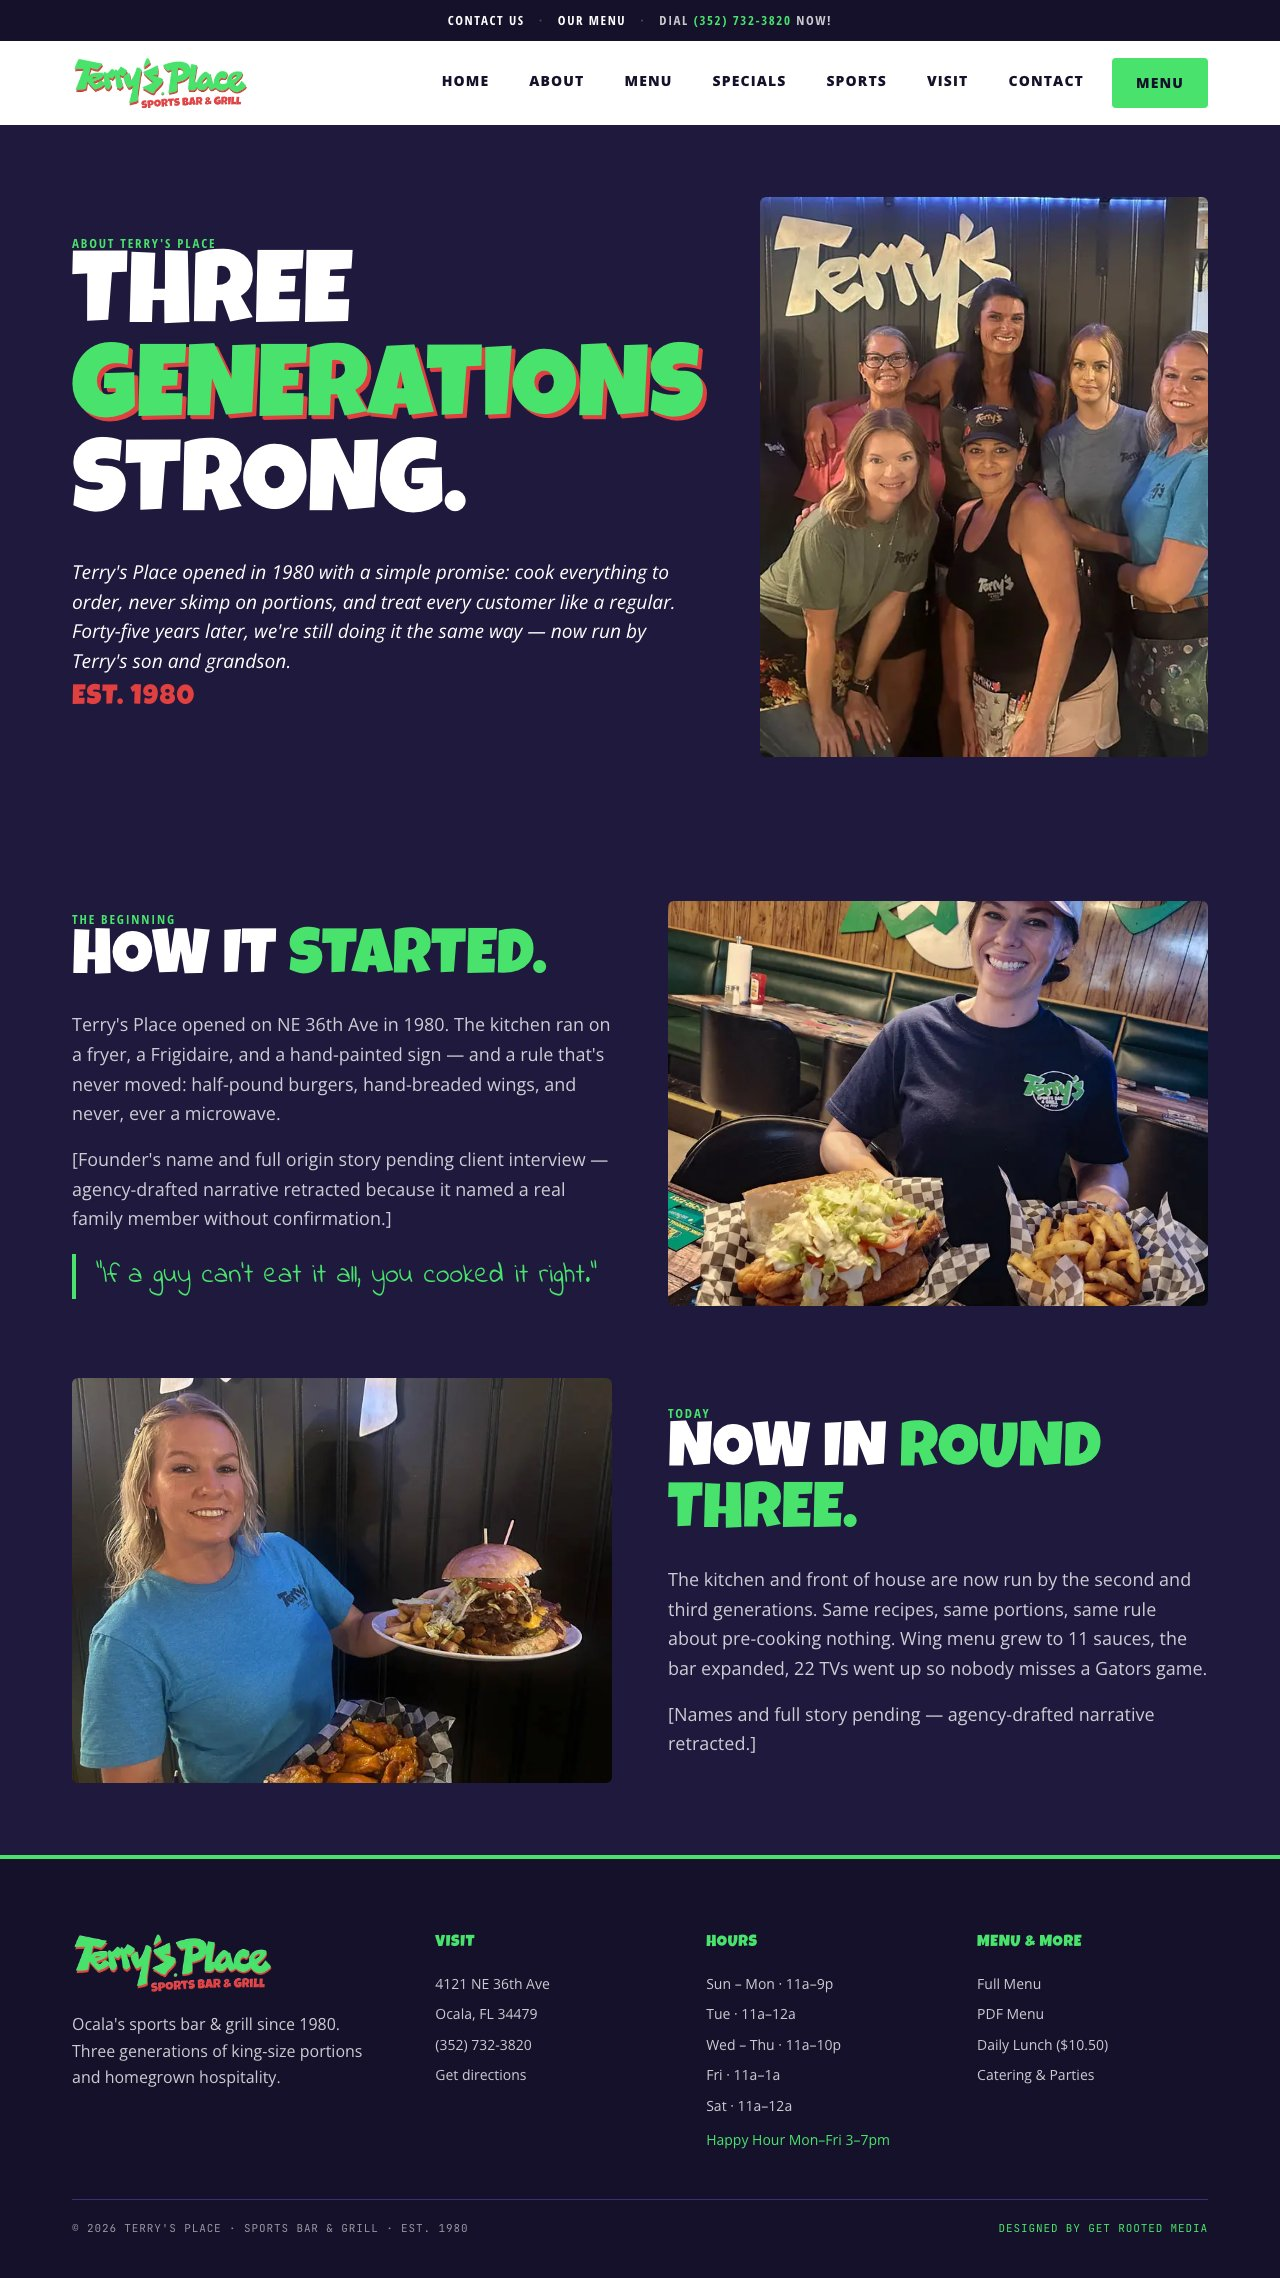
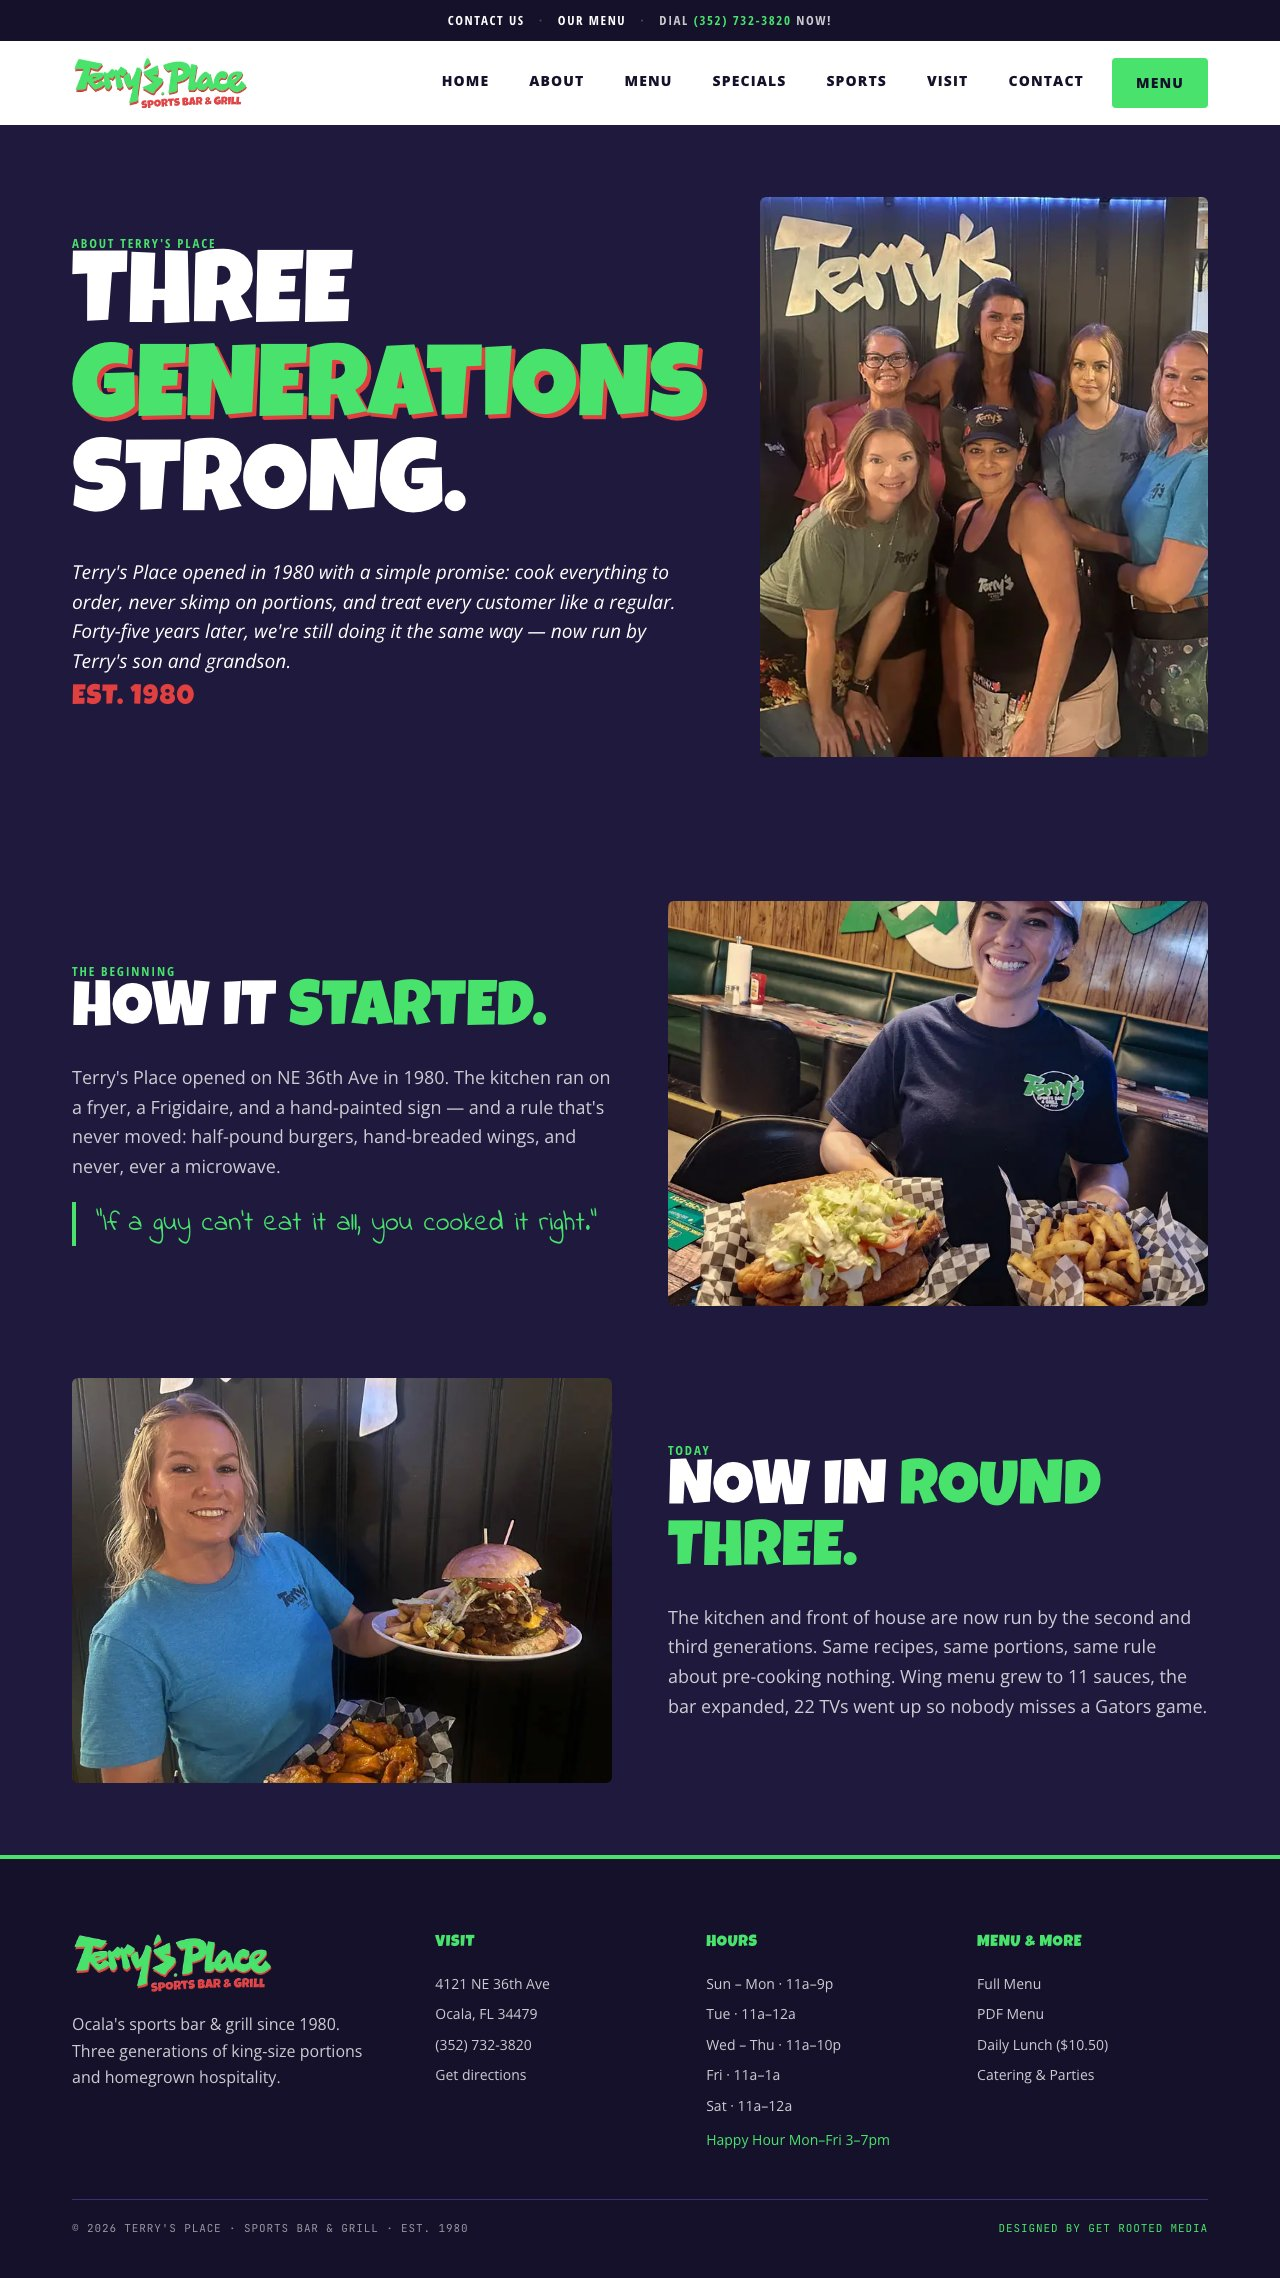
chore(walkthrough): refresh screenshots + per-route notes for final-pass state
Re-ran scripts/walkthrough-capture.mjs against the final deploy
(commit 71277da, then this docs commit). All 14 screenshots updated
to show the real photos + Design polish landed:

- /home Belly Buster card: real burger product shot
- /home heritage section: fresh team photo (5 staff, mural wall)
- /home stat tile: '7 days' (was '7-day')
- /visit: front-of-house EST.1980 banner shot below map+info grid
- /about: story rows end at facts (no more [retraction] paragraphs)
- /contact: DraftField label now '[CONTACT RECIPIENT EMAIL PENDING]'
- /menu mobile: anchor row scrolls horizontally (was wrapping)

WALKTHROUGH.md per-route notes updated to match. Same URL,
refreshed content — Design opens the same link they already have.

Changed region(s): [[0.0312, 0.4052, 0.4688, 0.561], [0.5, 0.6234, 0.9375, 0.7792]]

diff --git a/WALKTHROUGH.md b/WALKTHROUGH.md
@@ -7,8 +7,8 @@ The site is at **https://terrys-place.vercel.app** if you can reach it. If not, 
 | | |
 |---|---|
 | **Live preview** | https://terrys-place.vercel.app |
-| **Captured** | 2026-05-01 |
-| **State** | post all rounds: comp lift → Design feedback pass → menu rework → exterior banner → final review fixes |
+| **Captured** | 2026-05-01 (refresh) |
+| **State** | final pass — all rounds closed: comp lift → Design feedback → menu rework → exterior banners → real photos in (burger / team / front-of-house banner) → Design polish round 2 |
 
 ---
 
@@ -31,9 +31,9 @@ The screenshots are full-page captures, so a long scroll within each cell is the
 - **Hero** — wordmark photo behind the navy/green wash, the live-status pill animating top-left ("OPEN NOW · CLOSES 1:00 AM" right now because it's Friday past 11am and Friday closes at 1am Saturday), Tonight at Terry's strip on the right pulling four cells from the CMS.
 - **Marquee** — "$10.50 LUNCH MON–FRI · HAPPY HOUR 3–7 DAILY · KARAOKE FRIDAY · TRIVIA TUESDAY 7PM..." running across in the green band with red ★ separators. Auto-loops via CSS.
 - **This Week grid** — seven day-cells, today (Friday) highlighted with the green TODAY chip top-right. Each cell pulls the recurring weekly event from `events.json` so client edits roll through.
-- **What You Came For** — three signature dishes. **First card is a `<DraftField>` placeholder** ("Belly Buster product shot pending") because we don't have a clean burger product shot yet — the rest of the staff/wings/steak photos are real Terry's content.
+- **What You Came For** — three signature dishes. **The Belly Buster card now ships the real burger** — tall stacked patty with bacon + lettuce + tomato, plated with fries and pickles. (Earlier passes used a red-dashed `<DraftField>` placeholder; Ron sourced the real menu-grade product shot.)
 - **Sunday Football promo** — the dedicated two-up section restored after your feedback pass: pink promo on the left (links to `/specials`), "SUNDAY FOOTBALL, SERVED LOUD." headline on the right with the pitcher + 20 wings $29.99 line and a tel-CTA. This was missing in the first build because the comp's HTML didn't have it as a separate section — it was carried by a mis-labeled photo file. Fixed by giving it its own slot.
-- **Three Generations** — staff group photo on the left, `FAMILY-RUN SINCE 1980.` on the right with the 45 / 3 / 7-day stat tiles in carded green-top-bordered containers.
+- **Three Generations** — fresh team shot on the left (5 staff in green Terry's tees against the mural wall), `FAMILY-RUN SINCE 1980.` on the right with the 45 / 3 / **7 days** stat tiles in carded green-top-bordered containers. (`/about` keeps the broader 8-staff portrait at hero per your round-1 ratified call; home heritage section gets the energy shot.)
 - **News strip** — three cards. Agency-drafted entries for v1; Eli writes real ones at v1.5.
 
 ---
@@ -47,7 +47,7 @@ The screenshots are full-page captures, so a long scroll within each cell is the
 **What to look at:**
 
 - **Hero** — single-column now (the Daily Lunch aside that originally lived on the right was dropped per Ron's call; lunch already shouts on the green CTA strip below and on `/specials`). No more purple gap; headline starts at the top.
-- **Anchor nav** — sticky, jumps to each section. Click APPETIZERS / SALADS / BURGERS / etc. and the section title lands cleanly below the sticky bars (`scroll-margin-top` reserved 150px so titles aren't buried).
+- **Anchor nav** — sticky, jumps to each section. Click APPETIZERS / SALADS / BURGERS / etc. and the section title lands cleanly below the sticky bars (`scroll-margin-top` reserved 150px so titles aren't buried). On mobile (375px), the anchor row **horizontal-scrolls** instead of wrapping to multiple lines (Design polish round 2).
 - **Menu rows — the leader pattern.** Single-priced items: `[Bold Name] [.....dots fill.....] [$9.29]` with the italic description hanging full-width below. Tier-priced items (wings 10/20/30/50, subs Sm/Lg, fish 2pc/3pc): name + dots on row 1, tier pairs in mono on row 2 (`10 $14   20 $28   30 $42   50 $70`), description below. This restructured the original `t-menu-row` so descriptions don't squeeze the dots into orphan ticks at the right edge.
 - **Section count** — the comp had 4 sections; we lifted **all 7** from the actual PDF (Sandwiches, Subs, Dinners added — about 50 items total, all parsed from `Terrys-Place-MENU-2025.pdf`).
 - **Daily Lunch CTA strip** — green band with the $10.50 callout halfway through the page, anchored as `#lunch`.
@@ -64,7 +64,7 @@ The screenshots are full-page captures, so a long scroll within each cell is the
 **What to look at:**
 
 - **Hero** — `THREE GENERATIONS STRONG.` with the green/red wordmark stack treatment, real staff group photo on the right (the 8-staff portrait with the brushed-metal `Terry's` wall sign behind them).
-- **Story rows.** Two flipped rows — `HOW IT STARTED.` and `NOW IN ROUND THREE.` Per Ron's pre-walk ruling, the agency-drafted **fabricated family names were retracted** ("Terry Sr.", "Jr.", "III (Tre)") because inventing names for a real family business reads worse than blank. The story rows now end with `[pending]` retraction lines where a named anecdote would have been; the pull quote "If a guy can't eat it all, you cooked it right." stays (no name attached).
+- **Story rows.** Two flipped rows — `HOW IT STARTED.` and `NOW IN ROUND THREE.` Per Ron's pre-walk ruling, the agency-drafted fabricated family names were retracted (inventing names for a real family business reads worse than blank). Each row now **ends at the verified factual claims** — the earlier `[retraction]` self-flagellation lines are dropped per Design's round-2 polish ask. The pull quote "If a guy can't eat it all, you cooked it right." stays (no name attached).
 - **Family row hidden.** The "ONE FAMILY ONE RECIPE BOX" three-portrait section was added during build but **renders only when at least one family member has both name AND photo confirmed** — currently all three are pending, so the section hides entirely. Eli's preview drops to the two story rows + footer, no red-dashed grid below the fold. Once Eli supplies a name + portrait, the section lights up automatically.
 
 ---
@@ -105,8 +105,8 @@ The screenshots are full-page captures, so a long scroll within each cell is the
 **What to look at:**
 
 - **`COME THROUGH.`** with the green stack treatment.
-- **Real exterior photo** as the hero banner above the map+address grid. Mural-side of the building — yellow stucco with the hand-painted `Terry's` wordmark in green/red graffiti, tropical cocktail with `5 5 5` clock face, palm trees, "It's 5 o'clock here!" in teal. The mural's color palette literally matches the site's brand colors — feels like the brand walked off the wall onto the page.
-- **Functional stack below.** Real Google Maps embed with a pin on Terry's, Get Directions / Open in Maps CTAs underneath. Address card · Phone card · Hours card on the right, with the **green TODAY pill** chipping out today's row (Friday at capture time).
+- **Two exterior photos bookending the find-us details.** Mural-side hero banner at the top (yellow stucco with hand-painted `Terry's` wordmark, tropical cocktail clock face, palm trees, "It's 5 o'clock here!" in teal) — the brand walking off the wall. **Front-of-house banner at the bottom** (the new EST. 1980 wall sign — green Terry's wordmark on black, red border, staff member presenting it) — closes the page on the actual storefront. Both real, both Terry's.
+- **Functional stack between.** Real Google Maps embed with a pin on Terry's, Get Directions / Open in Maps CTAs underneath. Address card · Phone card · Hours card on the right, with the **green TODAY pill** chipping out today's row (Friday at capture time).
 
 ---
 
@@ -120,7 +120,7 @@ The screenshots are full-page captures, so a long scroll within each cell is the
 
 - **`GOT A QUESTION?`** + the warm-and-direct copy + the hand-drawn green line ("Or just walk in. We're not hard to find.") preserved exactly from the comp.
 - **OR CALL US** CTA — green pill with the phone number, build add per your feedback. The phone is the fastest path for most questions; the form covers catering / private events / press / general.
-- **Pending DraftField.** Below the call CTA, the red-dashed `REAL CONTACT RECIPIENT EMAIL` pill flags that the form currently posts to a placeholder address — Eli replaces with the real catering email before launch.
+- **Pending DraftField.** Below the call CTA, the red-dashed `[CONTACT RECIPIENT EMAIL PENDING]` pill flags that the form currently posts to a placeholder address. (Bracketed style now matches the family-row pattern; the inconsistent "Pending:" prefix dropped per Design polish round 2.)
 - **Form** — Name, Email, Phone (optional), Topic dropdown (General / Catering / Private Event / Press), Message, Send. Honeypot + Static Forms on the wire.
 
 ---
